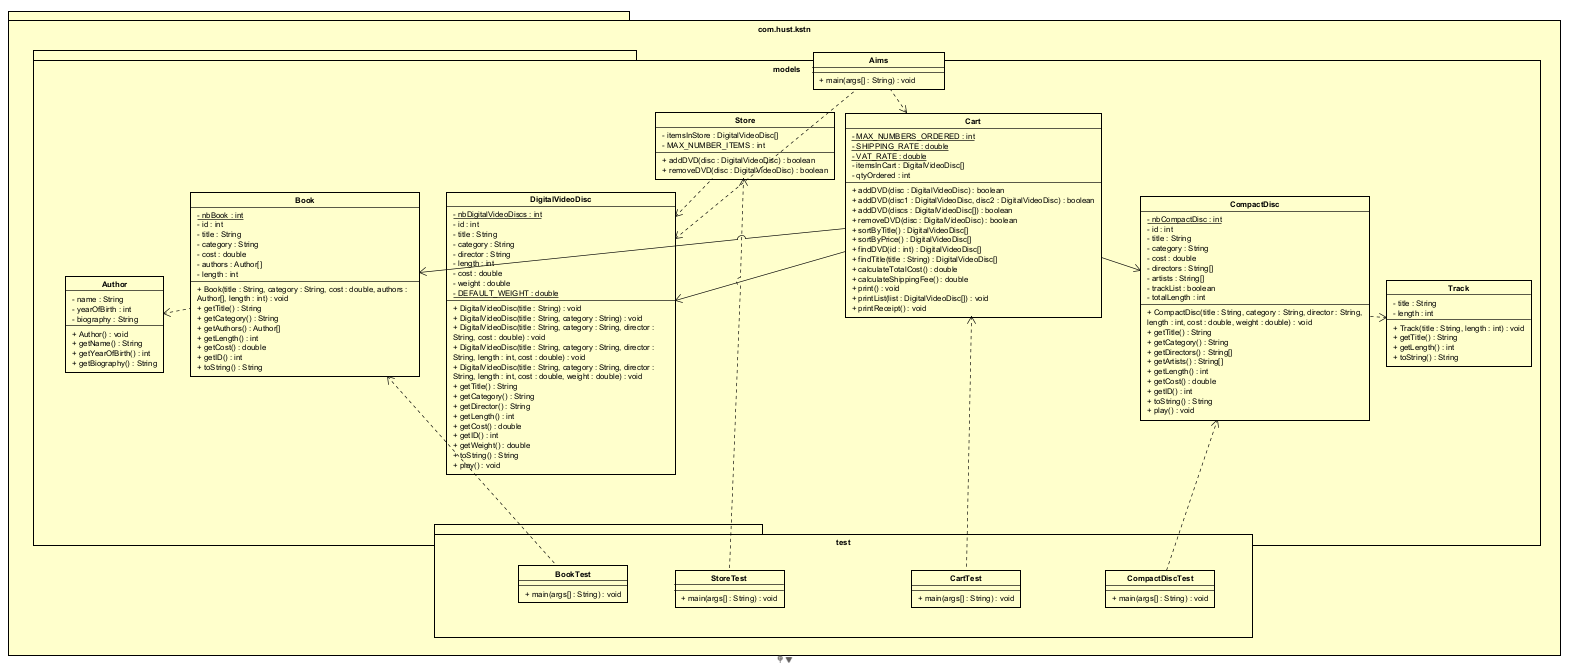
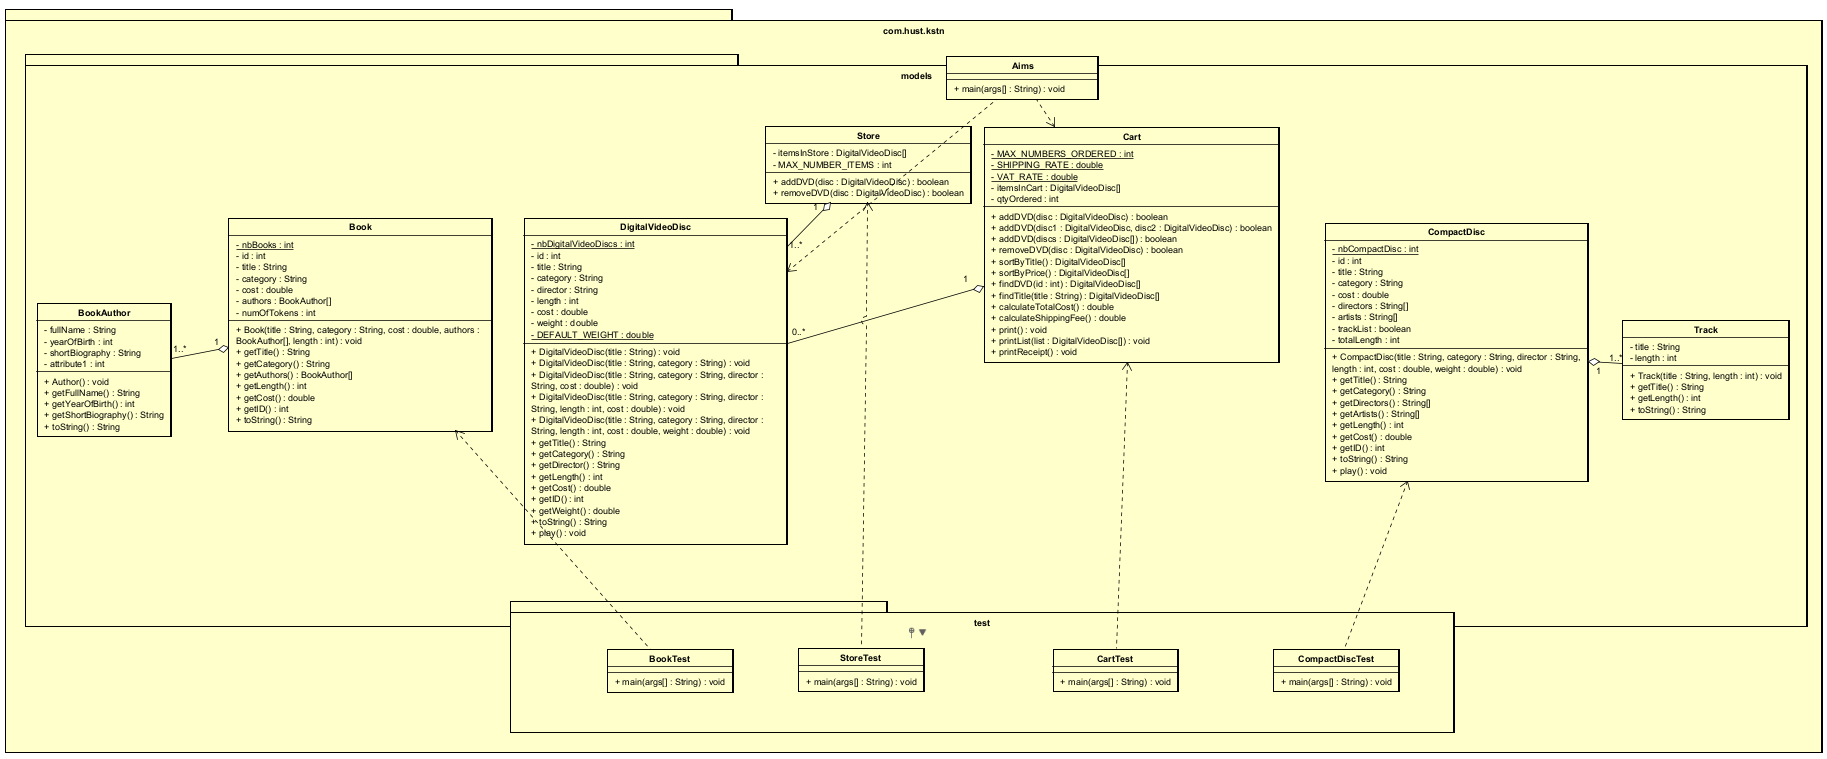
Implement Book, BookAuthor, BookTest, amend previous commit

diff --git a/AimsProject/src/com/hust/kstn/models/Book.java b/AimsProject/src/com/hust/kstn/models/Book.java
@@ -1,0 +1,49 @@
+package com.hust.kstn.models;
+
+
+public class Book {
+    private static int nbBooks = 0;
+    private int id;
+    private String title;
+    private String category;
+    private double cost;
+    private BookAuthor[] authors;
+    private int numOfTokens;
+
+    public Book(String title, String category, double cost, int numOfTokens, BookAuthor[] authors) {
+        this.title = title;
+        this.category = category;
+        this.cost = cost;
+        this.numOfTokens = numOfTokens;
+        this.authors = authors;
+        this.id = ++nbBooks;
+    }
+
+    public String getTitle() {
+        return title;
+    }
+
+    public String getCategory() {
+        return category;
+    }
+
+    public double getCost() {
+        return cost;
+    }
+
+    public BookAuthor[] getAuthors() {
+        return authors;
+    }
+    public int getNumOfTokens() {
+        return numOfTokens;
+    }
+    @Override
+    public String toString() {
+        return "Book[" + this.id + "][" 
+            + this.title + "][" 
+            + this.cost + "][" 
+            + this.category + "]["
+            + this.numOfTokens + "]"
+            + "\nAuthors: " + java.util.Arrays.toString(this.authors);
+    }
+}

diff --git a/AimsProject/src/com/hust/kstn/models/BookAuthor.java b/AimsProject/src/com/hust/kstn/models/BookAuthor.java
@@ -1,0 +1,28 @@
+package com.hust.kstn.models;
+
+public class BookAuthor {
+    private String fullName;
+    private int yearOfBirth;
+    private String shortBiography;
+    public BookAuthor(String fullName, int yearOfBirth, String shortBiography) {
+        this.fullName = fullName;
+        this.yearOfBirth = yearOfBirth;
+        this.shortBiography = shortBiography;
+    }
+    public String getFullName() {
+        return fullName;
+    }
+    public int getYearOfBirth() {
+        return yearOfBirth;
+    }
+    public String getShortBiography() {
+        return shortBiography;
+    }
+    @Override
+    public String toString() {
+    return this.fullName + " (" 
+            + this.yearOfBirth + ", "
+            + this.shortBiography + ")\n";
+    }
+
+}

diff --git a/AimsProject/src/com/hust/kstn/test/BookTest.java b/AimsProject/src/com/hust/kstn/test/BookTest.java
@@ -1,0 +1,16 @@
+package com.hust.kstn.test;
+
+import com.hust.kstn.models.BookAuthor;
+import com.hust.kstn.models.Book;
+
+public class BookTest {
+    public static void main(String[] args) {
+        BookAuthor author1 = new BookAuthor("J.K. Rowling", 1965, "British author, best known for the Harry Potter series.");
+        BookAuthor author2 = new BookAuthor("George R.R. Martin", 1948, "American novelist and short story writer, known for A Song of Ice and Fire.");
+        BookAuthor[] authors = {author1, author2};
+
+        Book book = new Book("Fantasy Anthology", "Fantasy", 29.99, 5, authors);
+        System.out.println(book);
+        
+    }
+}
